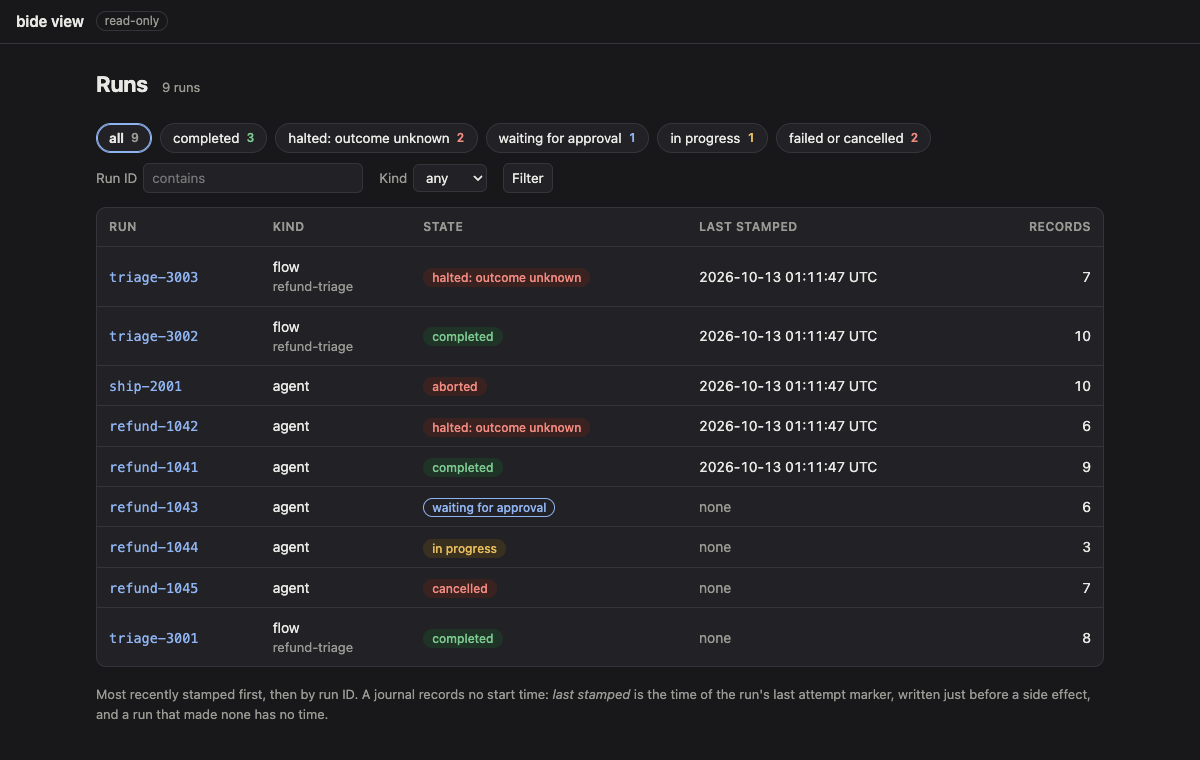
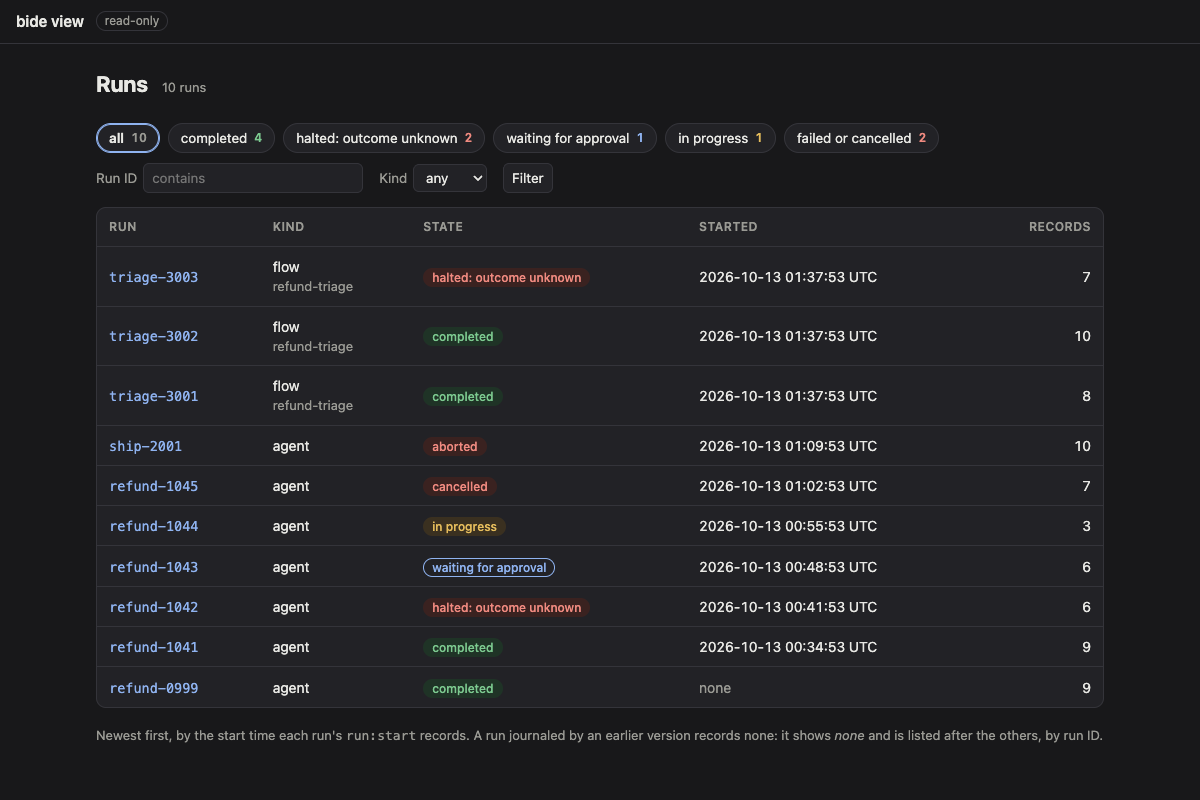
view: the run list shows and sorts by the recorded start time
Each row shows when the run started, as its run:start records it
(RunStart.StartedAt), and the list is newest first by it. A run journaled
by an earlier version, which recorded no start time, shows none and is
listed after the others, by run ID. The demo journal gives its agent runs
start times minutes apart and holds one run journaled with no start time;
the guide's screenshot is retaken from it.

diff --git a/internal/runview/assets/runs.html b/internal/runview/assets/runs.html
@@ -14,15 +14,15 @@
 <button type="submit">Filter</button>{{if or .Filter.Q .Filter.Kind .Filter.State}} <a class="small" href="/">Clear</a>{{end}}
 </form>
 {{if .Rows}}<div class="tablewrap"><table class="runlist">
-<thead><tr><th>Run</th><th>Kind</th><th>State</th><th title="the time of the run's last attempt marker, written before a side effect">Last stamped</th><th class="num">Records</th></tr></thead>
+<thead><tr><th>Run</th><th>Kind</th><th>State</th><th>Started</th><th class="num">Records</th></tr></thead>
 <tbody>{{range .Rows}}<tr>
 <td class="rid"><a href="{{.Link}}">{{.ID}}</a></td>
 <td>{{.KindText}}{{if .Flow}}<div class="muted small">{{.Flow}}</div>{{end}}</td>
 <td><span class="pill state-{{.State}}">{{.StateText}}</span></td>
-<td class="when">{{with .Stamped}}{{.}}{{else}}<span class="muted">none</span>{{end}}</td>
+<td class="when">{{with .StartedText}}{{.}}{{else}}<span class="muted" title="journaled by a version that recorded no start time">none</span>{{end}}</td>
 <td class="num">{{.Records}}</td>
 </tr>{{end}}</tbody></table></div>
 {{if .More}}<p class="more"><a href="{{.More}}">Show more ({{len .Rows}} of {{.Matched}} shown)</a></p>{{end}}
 {{else if not .Err}}<p class="muted">{{if .Listed}}No run matches the filter.{{else}}No runs to list. This store may not list its runs; open one with -run.{{end}}</p>{{end}}
-<p class="muted small legendnote">Most recently stamped first, then by run ID. A journal records no start time: <em>last stamped</em> is the time of the run's last attempt marker, written just before a side effect, and a run that made none has no time.</p>
+<p class="muted small legendnote">Newest first, by the start time each run's <code>run:start</code> records. A run journaled by an earlier version records none: it shows <em>none</em> and is listed after the others, by run ID.</p>
 {{template "foot"}}{{end}}

diff --git a/internal/runview/runlistdemo/runlistdemo.go b/internal/runview/runlistdemo/runlistdemo.go
@@ -1,6 +1,6 @@
 // Package runlistdemo writes a journal of runs in every state the bide view run list tells apart:
 // completed, halted (outcome unknown), waiting for approval, in progress, aborted and cancelled,
-// agent runs and plan flow runs. The runview and cmd/bide tests read it back through each store,
+// agent runs and plan flow runs, and one run journaled as a version that recorded no start time. The runview and cmd/bide tests read it back through each store,
 // and it is the journal the run viewer guide's screenshots are taken of:
 //
 //	BIDE_RUNLIST_DEMO=$PWD/runs.db go test ./cmd/bide -run TestRunListDemo
@@ -15,6 +15,8 @@ import (
 	"errors"
 	"fmt"
 	"iter"
+	"regexp"
+	"time"
 
 	"github.com/bide-ai/bide/agent"
 	"github.com/bide-ai/bide/agent/agenttest"
@@ -35,10 +37,14 @@ func Write(ctx context.Context, s agent.Store, prefix string) ([]Run, error) {
 	if err != nil {
 		return nil, err
 	}
+	// Each agent run starts a few minutes after the one before it, by its clock, so the list's
+	// start times differ; a flow run takes the wall clock (plan has no clock option).
+	base := time.Now().UTC().Add(-time.Duration(len(demos)) * 7 * time.Minute)
 	var runs []Run
-	for _, d := range demos {
+	for i, d := range demos {
 		id := prefix + d.id
-		if err := d.write(ctx, j, cs, id); err != nil {
+		at := base.Add(time.Duration(i) * 7 * time.Minute)
+		if err := d.write(ctx, j, cs, id, agent.WithClock(func() time.Time { return at })); err != nil {
 			return runs, fmt.Errorf("runlistdemo: %s: %w", id, err)
 		}
 		runs = append(runs, Run{ID: id, Kind: d.kind, Group: d.group})
@@ -48,46 +54,53 @@ func Write(ctx context.Context, s agent.Store, prefix string) ([]Run, error) {
 
 var demos = []struct {
 	id, kind, group string
-	write           func(ctx context.Context, j *agent.Journal, cs *crashStore, id string) error
+	write           func(ctx context.Context, j *agent.Journal, cs *crashStore, id string, clock agent.RunOption) error
 }{
-	{"refund-1041", "agent", "completed", func(ctx context.Context, j *agent.Journal, _ *crashStore, id string) error {
-		_, err := refundAgent(j, nil).Run(ctx, id, agent.UserText("Refund order 1041."))
+	{"refund-0999", "agent", "completed", func(ctx context.Context, j *agent.Journal, cs *crashStore, id string, clock agent.RunOption) error {
+		// Journaled as a version that recorded no start time writes run:start.
+		cs.noStartTime = true
+		defer func() { cs.noStartTime = false }()
+		_, err := refundAgent(j, nil).Run(ctx, id, agent.UserText("Refund order 999."), clock)
 		return err
 	}},
-	{"refund-1042", "agent", "halted", func(ctx context.Context, j *agent.Journal, cs *crashStore, id string) error {
+	{"refund-1041", "agent", "completed", func(ctx context.Context, j *agent.Journal, _ *crashStore, id string, clock agent.RunOption) error {
+		_, err := refundAgent(j, nil).Run(ctx, id, agent.UserText("Refund order 1041."), clock)
+		return err
+	}},
+	{"refund-1042", "agent", "halted", func(ctx context.Context, j *agent.Journal, cs *crashStore, id string, clock agent.RunOption) error {
 		// The refund fires and the process dies before its result is journaled: the resume halts.
 		cs.lose = "tool:c2"
-		_, err := refundAgent(j, nil).Run(ctx, id, agent.UserText("Refund order 1042."))
+		_, err := refundAgent(j, nil).Run(ctx, id, agent.UserText("Refund order 1042."), clock)
 		cs.lose = ""
 		if !errors.Is(err, errCrash) {
 			return fmt.Errorf("crashing run = %v, want the simulated crash", err)
 		}
-		_, err = refundAgent(j, nil).Run(ctx, id, agent.UserText("Refund order 1042."))
+		_, err = refundAgent(j, nil).Run(ctx, id, agent.UserText("Refund order 1042."), clock)
 		return want[*agent.OutcomeUnknown](err)
 	}},
-	{"refund-1043", "agent", "waiting", func(ctx context.Context, j *agent.Journal, _ *crashStore, id string) error {
-		_, err := refundAgent(j, agent.SingleApproval()).Run(ctx, id, agent.UserText("Refund order 1043."))
+	{"refund-1043", "agent", "waiting", func(ctx context.Context, j *agent.Journal, _ *crashStore, id string, clock agent.RunOption) error {
+		_, err := refundAgent(j, agent.SingleApproval()).Run(ctx, id, agent.UserText("Refund order 1043."), clock)
 		return want[*agent.ApprovalPending](err)
 	}},
-	{"refund-1044", "agent", "in-progress", func(ctx context.Context, j *agent.Journal, cs *crashStore, id string) error {
+	{"refund-1044", "agent", "in-progress", func(ctx context.Context, j *agent.Journal, cs *crashStore, id string, clock agent.RunOption) error {
 		// The process dies after the read-only lookup ran, before its result is journaled: no
 		// side effect started, so a resume would simply run the lookup again.
 		cs.lose = "tool:c1"
-		_, err := refundAgent(j, nil).Run(ctx, id, agent.UserText("Refund order 1044."))
+		_, err := refundAgent(j, nil).Run(ctx, id, agent.UserText("Refund order 1044."), clock)
 		cs.lose = ""
 		if !errors.Is(err, errCrash) {
 			return fmt.Errorf("crashing run = %v, want the simulated crash", err)
 		}
 		return nil
 	}},
-	{"refund-1045", "agent", "failed", func(ctx context.Context, j *agent.Journal, _ *crashStore, id string) error {
+	{"refund-1045", "agent", "failed", func(ctx context.Context, j *agent.Journal, _ *crashStore, id string, clock agent.RunOption) error {
 		// An operator cancels the refund while it waits for approval.
-		if _, err := refundAgent(j, agent.SingleApproval()).Run(ctx, id, agent.UserText("Refund order 1045.")); want[*agent.ApprovalPending](err) != nil {
+		if _, err := refundAgent(j, agent.SingleApproval()).Run(ctx, id, agent.UserText("Refund order 1045."), clock); want[*agent.ApprovalPending](err) != nil {
 			return err
 		}
 		return agent.Cancel(ctx, j, id, "customer withdrew the request")
 	}},
-	{"ship-2001", "agent", "failed", func(ctx context.Context, j *agent.Journal, _ *crashStore, id string) error {
+	{"ship-2001", "agent", "failed", func(ctx context.Context, j *agent.Journal, _ *crashStore, id string, clock agent.RunOption) error {
 		// A saga: the label is bought, the carrier booking fails, and the label is voided.
 		label := agent.MustCompensatedFunc("buy_label", "buy a shipping label",
 			func(context.Context, struct{}) (string, error) { return "label L-77", nil },
@@ -100,18 +113,18 @@ var demos = []struct {
 		if err != nil {
 			return err
 		}
-		_, err = a.Run(ctx, id, agent.UserText("Ship order 2001."), agent.WithSaga())
+		_, err = a.Run(ctx, id, agent.UserText("Ship order 2001."), agent.WithSaga(), clock)
 		return want[*agent.SagaAborted](err)
 	}},
-	{"triage-3001", "flow", "completed", func(ctx context.Context, j *agent.Journal, _ *crashStore, id string) error {
+	{"triage-3001", "flow", "completed", func(ctx context.Context, j *agent.Journal, _ *crashStore, id string, clock agent.RunOption) error {
 		_, err := refundFlow().Run(ctx, j, id, order{ID: "o-3001", Amount: 40})
 		return err
 	}},
-	{"triage-3002", "flow", "completed", func(ctx context.Context, j *agent.Journal, _ *crashStore, id string) error {
+	{"triage-3002", "flow", "completed", func(ctx context.Context, j *agent.Journal, _ *crashStore, id string, clock agent.RunOption) error {
 		_, err := refundFlow().Run(ctx, j, id, order{ID: "o-3002", Amount: 180})
 		return err
 	}},
-	{"triage-3003", "flow", "halted", func(ctx context.Context, j *agent.Journal, cs *crashStore, id string) error {
+	{"triage-3003", "flow", "halted", func(ctx context.Context, j *agent.Journal, cs *crashStore, id string, clock agent.RunOption) error {
 		cs.lose = "node:charge"
 		_, err := refundFlow().Run(ctx, j, id, order{ID: "o-3003", Amount: 250})
 		cs.lose = ""
@@ -167,15 +180,22 @@ func refundFlow() *plan.Flow[order, string] {
 
 var errCrash = errors.New("simulated crash")
 
-// crashStore fails the insert of the record named lose, when set: the write a crash loses.
+// crashStore fails the insert of the record named lose, when set: the write a crash loses. With
+// noStartTime it writes run:start without its start time, as an earlier version wrote it.
 type crashStore struct {
 	agent.Store
-	lose string
+	lose        string
+	noStartTime bool
 }
+
+var startTime = regexp.MustCompile(`,"started_at":"[^"]*"`)
 
 func (s *crashStore) Insert(ctx context.Context, runID, name string, data []byte) (agent.Entry, bool, error) {
 	if s.lose != "" && name == s.lose {
 		return agent.Entry{}, false, errCrash
+	}
+	if s.noStartTime && name == "run:start" {
+		data = startTime.ReplaceAll(data, nil)
 	}
 	return s.Store.Insert(ctx, runID, name, data)
 }

diff --git a/internal/runview/runlist_test.go b/internal/runview/runlist_test.go
@@ -87,13 +87,13 @@ func TestRunListStates(t *testing.T) {
 			t.Errorf("%s: want state %q, rows %+v", id, state, l.Rows)
 		}
 	}
-	// A run whose journal holds a side effect's attempt marker is stamped; one that made none is not.
-	for _, r := range l.Rows {
-		if stamped := !r.LastStamped.IsZero(); stamped != (r.ID != "refund-1043" && r.ID != "refund-1044" && r.ID != "triage-3001" && r.ID != "refund-1045") {
-			t.Errorf("%s: stamped = %v (%v)", r.ID, stamped, r.LastStamped)
+	// Every run shows when it started but the one journaled with no start time, which comes last.
+	for i, r := range l.Rows {
+		if old := r.ID == "refund-0999"; r.Started.IsZero() != old || old != (i == len(l.Rows)-1) {
+			t.Errorf("%s (row %d): started %v", r.ID, i, r.Started)
 		}
 	}
-	want := map[string]int{"completed": 3, "halted": 2, "waiting": 1, "in-progress": 1, "failed": 2}
+	want := map[string]int{"completed": 4, "halted": 2, "waiting": 1, "in-progress": 1, "failed": 2}
 	for g, n := range want {
 		if l.Counts[g] != n {
 			t.Errorf("count %s = %d, want %d", g, l.Counts[g], n)
@@ -148,25 +148,42 @@ func TestRunListFilters(t *testing.T) {
 	}
 }
 
-// TestRunListOrder: most recently stamped first, then unstamped runs by run ID.
+// TestRunListOrder: newest first by the start time run:start records, then the runs that record
+// none (an earlier version's, one whose time is not a time, one with no run:start) by run ID.
 func TestRunListOrder(t *testing.T) {
-	at := func(ms int64) []agent.Record {
-		if ms == 0 {
-			return []agent.Record{{Name: "x", Kind: agent.StepValue}}
+	start := func(at string) []agent.Record {
+		res := `{"input":"go","kind":"agent"}`
+		if at != "" {
+			res = `{"input":"go","kind":"agent","started_at":"` + at + `"}`
 		}
-		return []agent.Record{{Name: "x", Kind: agent.StepValue}, {Name: "attempt:tool:c0", Kind: agent.StepAttempt, AttemptedAt: ms - 5000}, {Name: "attempt:tool:c1", Kind: agent.StepAttempt, AttemptedAt: ms}, {Name: "attempt:tool:c2", Kind: agent.StepAttempt, AttemptedAt: ms - 9000}}
+		return []agent.Record{{Name: "run:start", Kind: agent.StepValue, Result: json.RawMessage(res)}}
 	}
-	x := Exports{"b-none": at(0), "a-none": at(0), "old": at(1_000_000), "new": at(3_000_000), "mid": at(2_000_000)}
+	x := Exports{
+		"old":      start("2026-10-01T09:00:00.000Z"),
+		"new":      start("2026-10-12T23:59:59.999Z"),
+		"mid":      start("2026-10-12T08:00:00.500+02:00"),
+		"c-legacy": start(""),
+		"b-junk":   start("yesterday"),
+		"a-none":   {{Name: "x", Kind: agent.StepValue}},
+	}
 	l := Options{Source: x}.runList(context.Background(), ListFilter{Limit: listPage})
-	if got, want := ids(l), []string{"new", "mid", "old", "a-none", "b-none"}; !slices.Equal(got, want) {
+	if got, want := ids(l), []string{"new", "mid", "old", "a-none", "b-junk", "c-legacy"}; !slices.Equal(got, want) {
 		t.Fatalf("order = %v, want %v", got, want)
 	}
-	if got := l.Rows[0].LastStamped.UnixMilli(); got != 3_000_000 {
-		t.Fatalf("new's stamp = %d, want its last attempt marker's", got)
+	if got := l.Rows[1]; got.StartedText() != "2026-10-12 06:00:00 UTC" {
+		t.Fatalf("mid started %q, want its time in UTC", got.StartedText())
+	}
+	for _, r := range l.Rows[3:] {
+		if !r.Started.IsZero() || r.StartedText() != "" {
+			t.Fatalf("%s: started %v", r.ID, r.Started)
+		}
 	}
 	// A journal with records and no run:start is a run not started.
 	if r := l.Rows[3]; r.Group != "not-started" || r.StateText != "not started" || r.Kind != "" || r.KindText() != "unknown" {
 		t.Fatalf("a-none = %+v", r)
+	}
+	if code, body := get(t, Handler(Options{Source: x}), "/"); code != 200 || !strings.Contains(body, "2026-10-12 23:59:59 UTC") || strings.Count(body, `title="journaled by a version that recorded no start time">none<`) != 3 {
+		t.Fatalf("page = %d; want the start times, and none for the three runs that record none", code)
 	}
 }
 

diff --git a/internal/runview/runlist.go b/internal/runview/runlist.go
@@ -3,6 +3,7 @@ package runview
 import (
 	"cmp"
 	"context"
+	"encoding/json"
 	"net/url"
 	"slices"
 	"strconv"
@@ -76,21 +77,20 @@ type RunRow struct {
 	Group     string `json:"group"` // the state filter group
 	Flow      string `json:"flow,omitempty"`
 	Records   int    `json:"records"`
-	// LastStamped is the latest time the run's journal records: the AttemptedAt of its last
-	// attempt marker, written before a side effect. Zero when the run journaled none (a journal
-	// records no other wall-clock time).
-	LastStamped time.Time `json:"last_stamped,omitzero"`
+	// Started is when the run's first drive started, as its run:start records it
+	// (agent.RunStart.Started). Zero for a run journaled by a version that recorded none.
+	Started time.Time `json:"started,omitzero"`
 }
 
 // Link is the run's page.
 func (r RunRow) Link() string { return "/run?id=" + url.QueryEscape(r.ID) }
 
-// Stamped is LastStamped as the list shows it, or "" when the run has no stamp.
-func (r RunRow) Stamped() string {
-	if r.LastStamped.IsZero() {
+// StartedText is Started as the list shows it, or "" when the run records no start time.
+func (r RunRow) StartedText() string {
+	if r.Started.IsZero() {
 		return ""
 	}
-	return r.LastStamped.Format("2006-01-02 15:04:05 UTC")
+	return r.Started.UTC().Format("2006-01-02 15:04:05 UTC")
 }
 
 // KindText is the run's kind as the list shows it.
@@ -103,8 +103,8 @@ func kindText(k string) string {
 	return strings.ReplaceAll(k, "_", " ")
 }
 
-// RunList is the run list page: the runs the filter admits, ordered most recently stamped first,
-// then unstamped runs by run ID.
+// RunList is the run list page: the runs the filter admits, newest first by start time, then the
+// runs that record none by run ID.
 type RunList struct {
 	Filter ListFilter `json:"filter"`
 	Rows   []RunRow   `json:"runs"`
@@ -218,7 +218,7 @@ func (o Options) runList(ctx context.Context, f ListFilter) RunList {
 	}
 	slices.Sort(l.Kinds)
 	slices.SortStableFunc(rows, func(a, b RunRow) int {
-		if c := b.LastStamped.Compare(a.LastStamped); c != 0 {
+		if c := b.Started.Compare(a.Started); c != 0 {
 			return c
 		}
 		return strings.Compare(a.ID, b.ID)
@@ -240,10 +240,12 @@ func summarize(ctx context.Context, runID string, recs []agent.Record) RunRow {
 		r.StateText = strings.ReplaceAll(r.Group, "-", " ")
 	}
 	for _, rec := range recs {
-		if rec.Kind == agent.StepAttempt && rec.AttemptedAt > 0 {
-			if t := time.UnixMilli(rec.AttemptedAt).UTC(); t.After(r.LastStamped) {
-				r.LastStamped = t
+		if rec.Kind == agent.StepValue && rec.Name == "run:start" {
+			var st agent.RunStart
+			if json.Unmarshal(rec.Result, &st) == nil {
+				r.Started, _ = st.Started()
 			}
+			break
 		}
 	}
 	return r

diff --git a/internal/runview/cli.go b/internal/runview/cli.go
@@ -54,8 +54,9 @@ recorded or, with -need and -approvers, against the policy you expect. It never 
 store, and it serves on a loopback address only. Stop it with Ctrl-C.
 
 With no -run the page opens on the run list: each run's kind, state (completed, halted: outcome
-unknown, waiting for approval, in progress, aborted or cancelled), the time of its last attempt
-marker (a journal records no other time) and its record count, filtered by state, kind and run ID.
+unknown, waiting for approval, in progress, aborted or cancelled), when it started (as its
+run:start records it; none for a run an earlier version journaled) and its record count, newest
+first, filtered by state, kind and run ID.
 
 From -db or -postgres, the page of a run in progress follows it (live mode): it polls the store
 about once a second for records after the last one it shows, and updates in place until the run

diff --git a/CHANGELOG.md b/CHANGELOG.md
@@ -11,7 +11,7 @@ journal format can change between pre-releases without a version bump. Curated h
 
 ### Added
 
-- `bide view` with no `-run` opens on a run list: each run's ID (linking to its page), kind, state (completed, halted: outcome unknown, waiting for approval, in progress, aborted, cancelled; the state the run page shows), the time of its last attempt marker (a journal records no other wall-clock time) and its record count, most recently stamped first. It filters by state (with counts), kind and run ID substring, shows 50 rows with a "show more" link, and serves the same list as JSON at `/runs.json`. It reads SQLite, Postgres and exported journals, read-only, on loopback only, with no JavaScript. One load classifies at most 5,000 runs and says when it stops short. The guide's screenshot is of a demo journal any checkout can write (`BIDE_RUNLIST_DEMO=$PWD/runs.db go test ./cmd/bide -run TestRunListDemo`).
+- `bide view` with no `-run` opens on a run list: each run's ID (linking to its page), kind, state (completed, halted: outcome unknown, waiting for approval, in progress, aborted, cancelled; the state the run page shows), when it started (`RunStart.StartedAt`; "none" for a run journaled by an earlier version, which recorded no start time) and its record count, newest first. It filters by state (with counts), kind and run ID substring, shows 50 rows with a "show more" link, and serves the same list as JSON at `/runs.json`. It reads SQLite, Postgres and exported journals, read-only, on loopback only, with no JavaScript. One load classifies at most 5,000 runs and says when it stops short. The guide's screenshot is of a demo journal any checkout can write (`BIDE_RUNLIST_DEMO=$PWD/runs.db go test ./cmd/bide -run TestRunListDemo`).
 - A run's `run:start` records when its first drive started: `RunStart.StartedAt` (`started_at`), UTC, RFC 3339 with milliseconds, by the drive's clock (`WithClock`, else the wall clock), for agent runs, session turns and plan flow runs; `RunStart.Started` reads it as a `time.Time`. It is informational, for tools that list runs: no drive, resume, recovery pass or at-most-once check reads it, and a later drive neither rewrites it nor is held to it. A run whose `run:start` was written by an earlier version has none and loads and resumes as before (`TestRunStart_StartedAtIsNotRead` drives the same journal with the time as written, absent, different and not a time, and checks every drive does and journals the same; `TestRunStart_EarlierJournalLoads`). A replayed run (`Replay`) records its own start time, so its journal matches the original's but for that member. The recovery pass's fast decoding of the commonest `run:start` reads the new member too. Journal format: one new optional member, with no format version change before 1.0.
 - Risk map and policy assertions for flow configs. `bide view -config` colors each node by its crash behavior (side effect: the resume halts and asks; read-only or idempotent: it re-runs; unknown without the Registry), marks its approval gate, and sums up side effects behind a gate and not ("1 side-effect step, 1 gated, 0 ungated"). A config's new `assert` list, which `plan.Load` ignores, states policy about the graph: `every path to <node> passes approval >= K [of N]`, `every path to <node> passes <node>`, `every path to a terminal passes <node>`, `no side effect after <node>`, `<node> reachable` and `<node> unreachable`, each decided by reachability over the declared graph (loops included). A violated assertion is an error with a shortest counterexample path, drawn in red on the page and printed by `bide check`, which exits 1; an ill-formed, unknown-node or undecided assertion is an error too. `plan.InspectConfig` reports them in `ConfigReport.Safety`, `.Gated` and `.Assertions` (`plan.NodeSafety`, `plan.AssertionResult`). `examples/plan/flows/refund-policy.yaml` and `refund-policy-bypass.yaml` show a holding and a violated policy.
 - `bide view` live mode: the page of a run in progress, read from a SQLite or Postgres journal, follows the run. Its timeline rows appear as records land, and END STATE, the approval gates and the flow graph update in place (scroll position kept), with a "live" mark, until the run journals its end marker. The page's one embedded script polls the new `/run/live?id=<run>&after=<cursor>` about once a second; the viewer answers from one `Load` of the entries after the cursor (the store sequence of the last record shown) and returns only the new records' rows. Read-only and loopback-only like the rest of the viewer; an exported journal stays static, and the page is complete without JavaScript. `examples/approval run -turn-delay` holds each model turn so it can be watched; `assets/demo/live.sh` records the guide's GIF.

diff --git a/docs/guides/run-viewer.md b/docs/guides/run-viewer.md
@@ -73,10 +73,10 @@ polls (see [Follow a run in progress](#follow-a-run-in-progress)).
 With no `-run`, the page opens on the journal's runs, so you can find the one that halted or is
 waiting without knowing its ID:
 
-![bide view's run list over a journal of nine runs: completed, halted, waiting for approval, in progress, aborted and cancelled agent and flow runs, with state counts and filters](img/run-viewer-run-list-dark.png)
+![bide view's run list over a journal of ten runs: completed, halted, waiting for approval, in progress, aborted and cancelled agent and flow runs, newest first, with state counts and filters](img/run-viewer-run-list-dark.png)
 
 Each row is a run: its ID (a link to its page), its kind (`agent`, `flow` with the flow's name, or
-`session turn`), its state, the time it was last stamped, and its record count. The state is the
+`session turn`), its state, when it started, and its record count. The state is the
 one the run's page shows (see END STATE below), so the list and the page never disagree. The state
 filters above the table count the runs in each state: completed, **halted: outcome unknown**,
 **waiting for approval**, **in progress** (started, not ended, not halted and not waiting), and
@@ -86,12 +86,10 @@ run ID filter (a case-insensitive substring) narrow the list further; the filter
 (`/?state=halted&kind=flow&q=refund`), so a filtered list can be bookmarked. The same list is JSON
 at `/runs.json`, with the same query.
 
-The journal records no wall-clock time for a run today: no start time and no end time. The one time
-it holds is on an attempt marker, which a run writes just before a side effect (a tool call that is
-not retry-safe on resume, or a `Step`). So **last stamped** is the time of the run's last
-side-effect attempt, and the list is ordered by it: the most recently stamped runs first, then the
-runs with no side effect (no time) by run ID. Recording a start time in the journal is a separate,
-later change.
+**Started** is the time the run's `run:start` records (`RunStart.StartedAt`): when its first drive
+began, by that drive's clock, shown in UTC. The list is ordered by it, newest first. A run journaled
+by an earlier version, which recorded no start time, shows **none** and is listed after the others,
+by run ID. The journal records no end time, so the list shows none.
 
 The list shows 50 runs and a **Show more** link for the next 50. To classify a run the viewer reads
 its journal, so one load reads at most 5,000 runs (the first by run ID among those the run ID filter
@@ -99,7 +97,8 @@ admits) and says so when there are more; narrow the run ID filter to reach the o
 journal holds one run, so `-journal` lists as many runs as files it is given, and the page says so
 when it is one.
 
-To make the journal in the screenshot (nine runs, every state, no API key), run the test that
+To make the journal in the screenshot (ten runs, every state, one journaled with no start time, no
+API key), run the test that
 writes it and open it:
 
 ```sh

diff --git a/docs/reference/cli.md b/docs/reference/cli.md
@@ -91,8 +91,9 @@ recorded or, with -need and -approvers, against the policy you expect. It never 
 store, and it serves on a loopback address only. Stop it with Ctrl-C.
 
 With no -run the page opens on the run list: each run's kind, state (completed, halted: outcome
-unknown, waiting for approval, in progress, aborted or cancelled), the time of its last attempt
-marker (a journal records no other time) and its record count, filtered by state, kind and run ID.
+unknown, waiting for approval, in progress, aborted or cancelled), when it started (as its
+run:start records it; none for a run an earlier version journaled) and its record count, newest
+first, filtered by state, kind and run ID.
 
 From -db or -postgres, the page of a run in progress follows it (live mode): it polls the store
 about once a second for records after the last one it shows, and updates in place until the run
